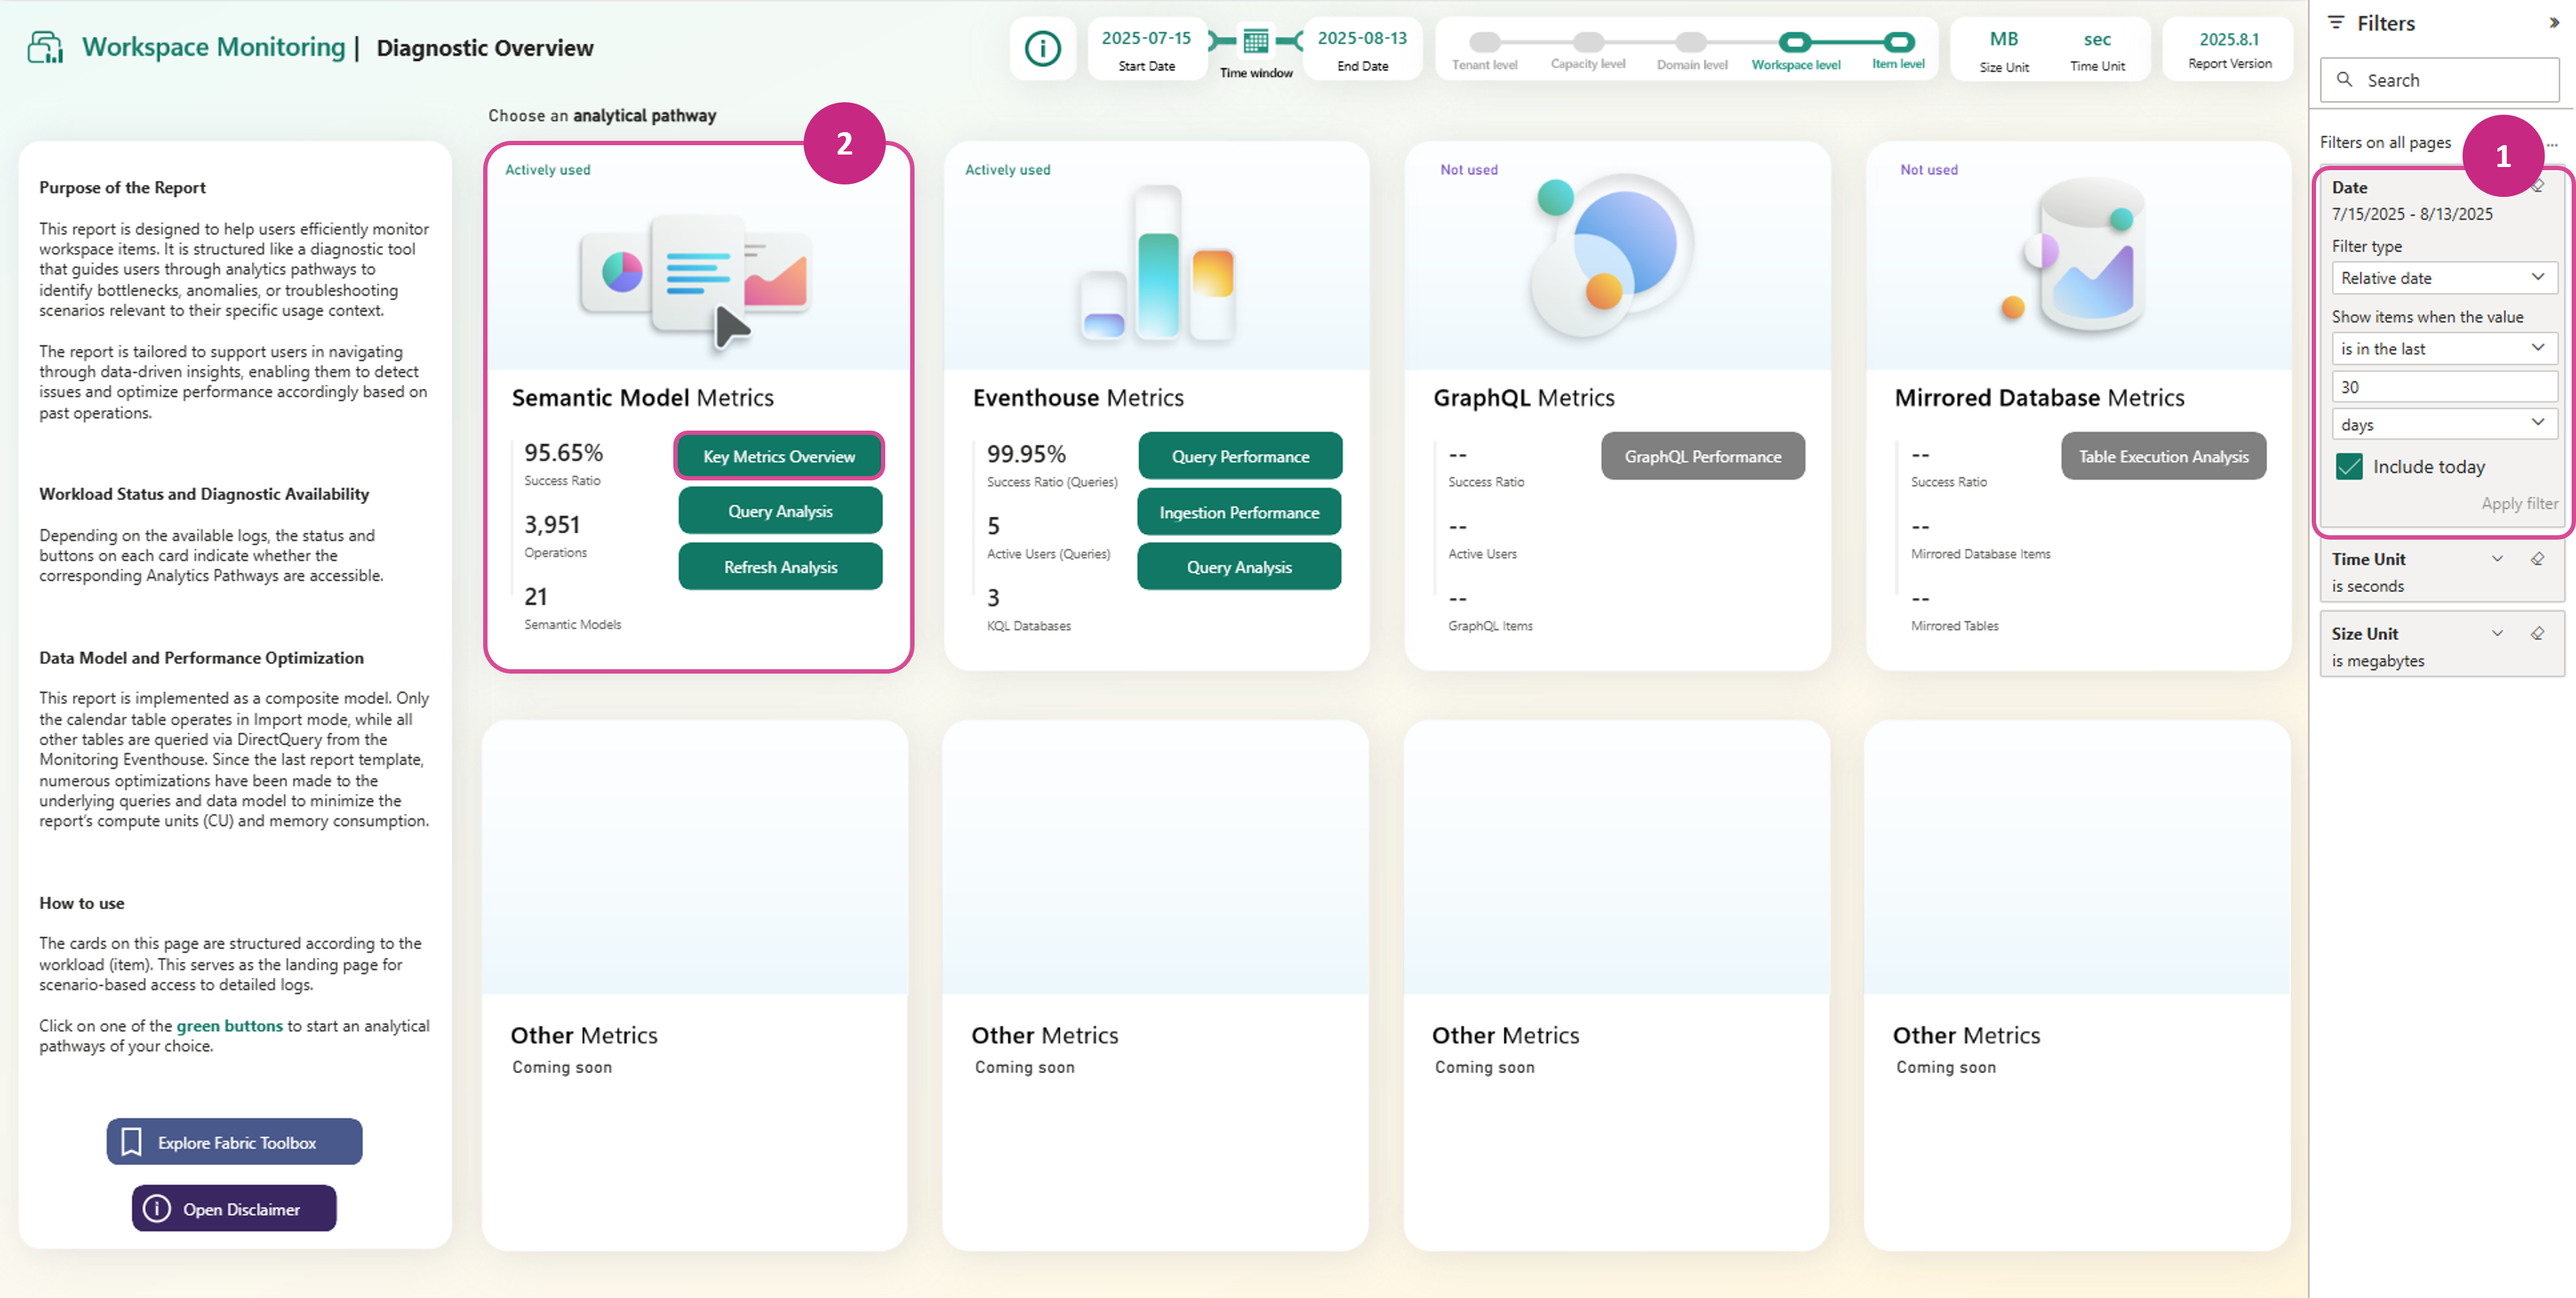
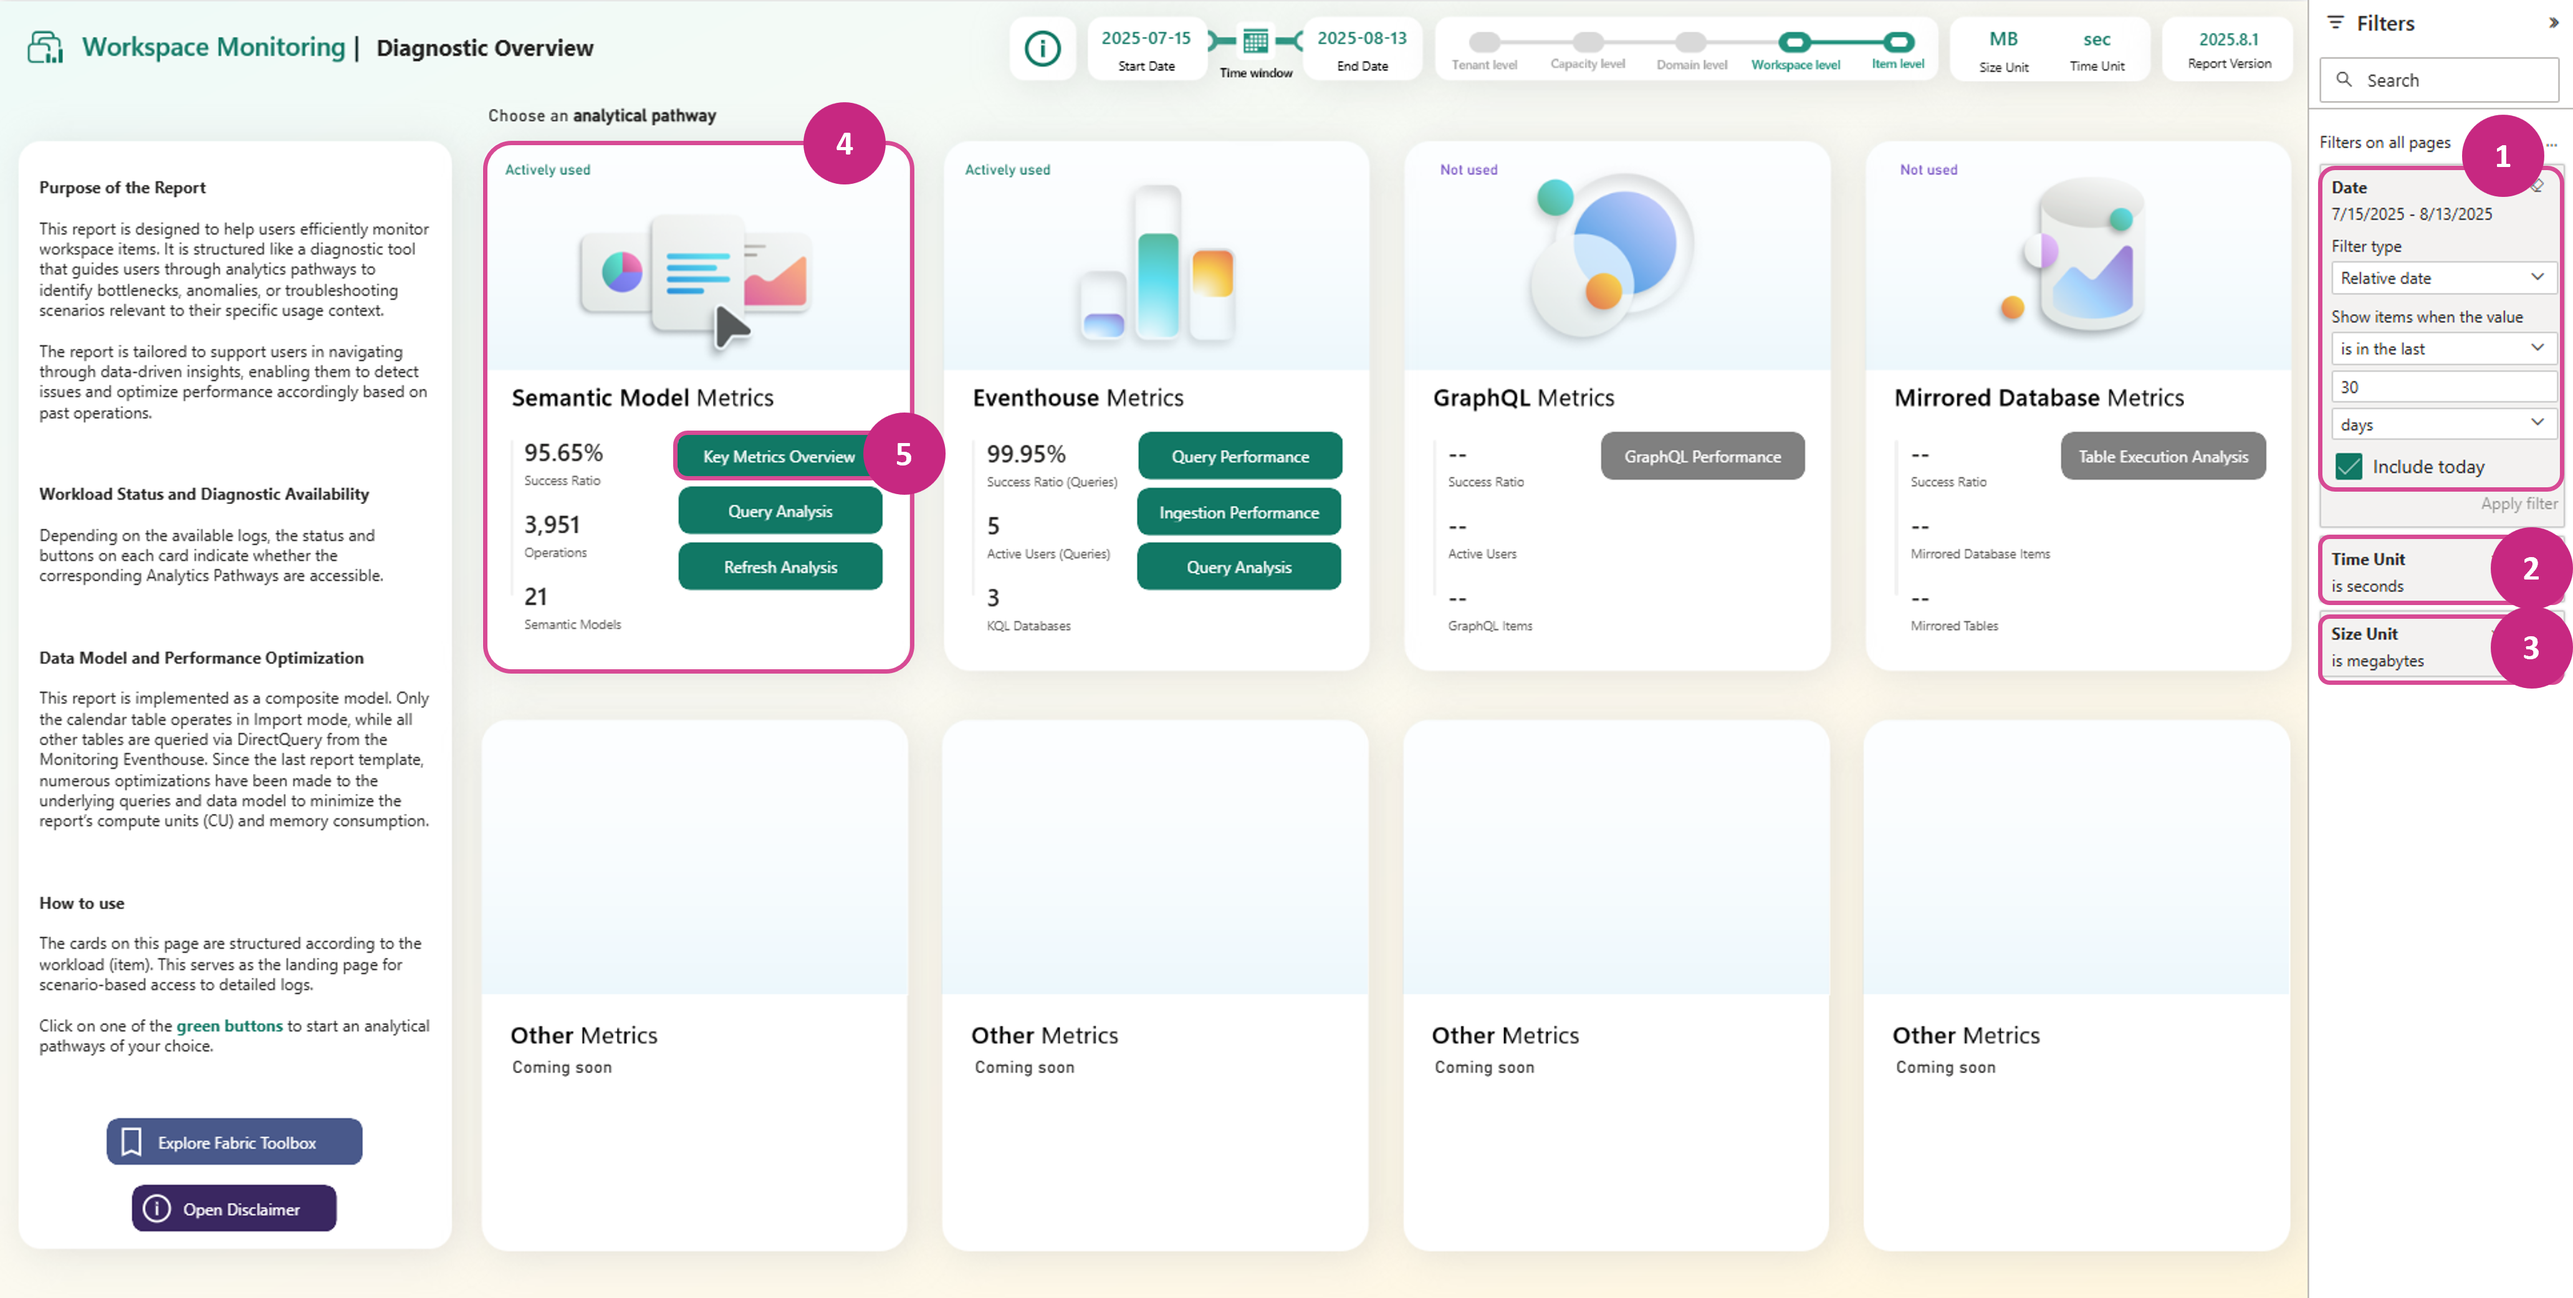
Updated readme

diff --git a/monitoring/workspace-monitoring-dashboards/documentation/Workspace_Monitoring_PBI_Report.md b/monitoring/workspace-monitoring-dashboards/documentation/Workspace_Monitoring_PBI_Report.md
@@ -12,7 +12,7 @@ The Power BI Report template is structured on the following way:
 
 ## How to deploy
 
-Follow the documentation here
+Follow the documentation [here](/monitoring/workspace-monitoring-dashboards/how-to/How_to_deploy_Workspace_Monitoring_PBI_Report.md).
 
 ## Common scenarios 
 
@@ -49,25 +49,60 @@ There are some common questions where Workspace Monitoring can help with the Pow
 Workspace admins, users, BI developers etc. would like to analyse the operations of all the semantic models within a given workspace.
 They want to investigate which semantic model had in the recent time (max last 30 days, because of Monitoring Eventhouse retention period) significant problems with queries and refreshes.
 
+#### Analytical Pathway | Key Metrics Overview
+**for Semantic Model logs**
 
-#### Analytical Pathway | Query analysis
 
 |Step|Description|
 |---|---|
-|1.|Define the considered time window on the filter pane [min: 1, max: 30] in days|
-|2.|Click on the "Key Metrics Overview" button within the "Semantic Model Metrics" tile to begin the analytical pathway.|
+|1.|**Define** the considered time window (**Date**) on the filter pane <br> Available interval: between 1 and 30 days|
+|2.|**Define** the "Time Unit" filter, which helps you to convert all time related measures. <br> Available units: _millisecond_, _second_, _minute_, _hour_|
+|3.|**Define** the "Size Unit" filter, which helps you to convert all the data size/volume related measures. <br> Available units: _byte_, _kilobyte_, _megabyte_, _gigabyte_|
+|4.|**Review** the "Semantic Model Metrics" card. Once there are any collected logs for semantic models, this card will be available.|
+|5.|**Click** on the **Key Metrics Overview** button within the "Semantic Model Metrics" tile to begin the analytical pathway.|
 
 ![Screenshot](/monitoring/workspace-monitoring-dashboards/media/documentation/pbi/fwm_pbi_ap_0.png)
 
 |Step|Description|
 |---|---|
-|3.|Review the Metrics table on the page.  This visual shows the key raw CPU, Memory and Duration metrics for each semantic models, which have been used within the defined time window. _See the Measure description below._|
-|4.|Highlight a semantic model, which you are interested in. In this example, we go with the "Simple_Import_Mode_SQL_Demo" semantic model, because it had the highest _CPU Time_ across all semantic models in the given workspace in the last 30 days. |
-|5.|In this step, there are two options to continue the analysis. Based on the metrics _Query Operations_ and _Refresh Operations_, you can identify, how many different operations has run for each scenarios. Click on the "Go to Query Analysis" button to continue the analysis. |
+|6.|The cards provide you aggregated insights about all semantic models in the selected time window. <br> **Important:** The report includes query and refresh operations only.|
+|7.|The underlying logs provide also information about _Execution Delay_ and _Capacity Throttling_ which was caused by a semantic model by operation. <br> **Important:** This visual contains those information on workspace level only. To monitor delays, rejections and throttling, please use the Capacity Metrics App.|
+|8.|Review the Metrics table on the page.  This visual shows the key raw CPU, Memory and Duration and other key metrics for each semantic models, which have been used within the defined time window. <br> _See the Measure description below._ <br> **Highlight** a semantic model in the visual to activate the buttons for step 9 and 10. |
+|9.|The analytical pathway _Query Analysis_ allows you to deep dive into the query execution details for the selected semantic model. |
+|10.|The analytical pathway _Refresh Analysis_ allows you to deep dive into the refresh execution details for the selected semantic model. |
 
 >**Note:** Other metrics with high values like _Max Execution Delay_, or _Max Memory Peak_ or count of _Errors_ are indicators to continue the investigation.
 
+
+
 ![Screenshot](/monitoring/workspace-monitoring-dashboards/media/documentation/pbi/fwm_pbi_ap_1.png)
+
+
+
+#### Analytical Pathway | Query analysis
+**for Semantic Model logs**
+
+|Step|Description|
+|---|---|
+|1.|**Define** the considered time window (**Date**) on the filter pane <br> Available interval: between 1 and 30 days|
+|2.|**Review** the "Semantic Model Metrics" card. Once there are any collected logs for semantic models, this card will be available.|
+|3.|**Click** on the **Query Analysis** button within the "Semantic Model Metrics" tile to begin the analytical pathway.|
+
+![Screenshot](/monitoring/workspace-monitoring-dashboards/media/documentation/pbi/fwm_pbi_ap_10.png)
+
+|Step|Description|
+|---|---|
+|4.|The filter pane on this page contains two filters: _OperationId_ and _Semantic Model_. <br> **Important:** The _Semantic Model_ filters shows the latest name of the model. For instance if you renamed the semantic model several times in the past days, the report will gather the latest, current name of it. The data model behind the report uses ItemIds, which are consistent for each deployed semantic model.|
+|5.|**Review** the visual. Each stacked bar chart shows metrics by semantic model by day. The bar size shows the _Max CPU Time_, the color of the bar shows the _Max Peak Memory_ consumption. This combination provides you a comprehesive view, where you can put the CPU time and the memory consumption into correlation. _See examples below_. |
+|6.| **Highlight a bar** on the chart for the next step. |
+
+
+>**Example 1:** The CPU duration (bar) is **high**, however the memory consumption (color) is **green**. This would mean that on that day at least one query operation was **CPU intensive**. 
+
+>**Example 2:** The CPU duration (bar) is **low**, however the memory consumption (color) is **red**. This would mean that on that day at least one query operation was **Memory intensive**.
+
+
+![Screenshot](/monitoring/workspace-monitoring-dashboards/media/documentation/pbi/fwm_pbi_ap_11.png)
 
 |Step|Description|
 |---|---|
@@ -92,6 +127,7 @@ You finished the analytical pathway "Query analysis" for semantic models.
 ------------------------------------------------------------------------------------------------
 
 #### Analytical Pathway | Refresh analysis
+**for Semantic Model logs**
 
 |Step|Description|
 |---|---|
